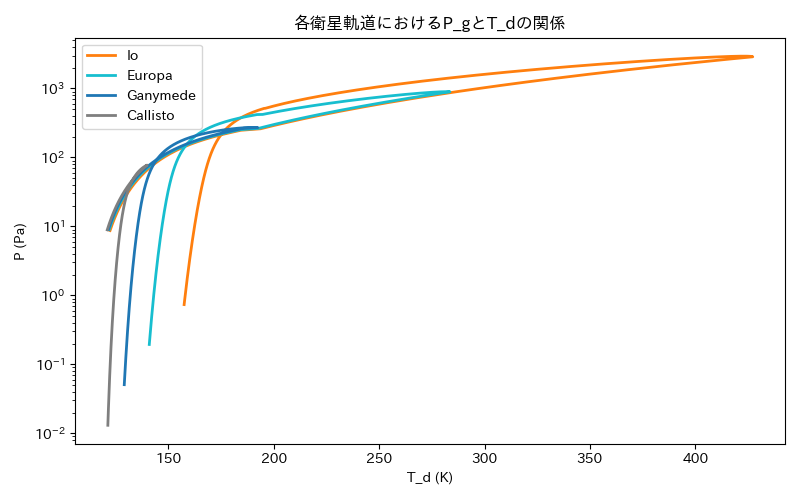
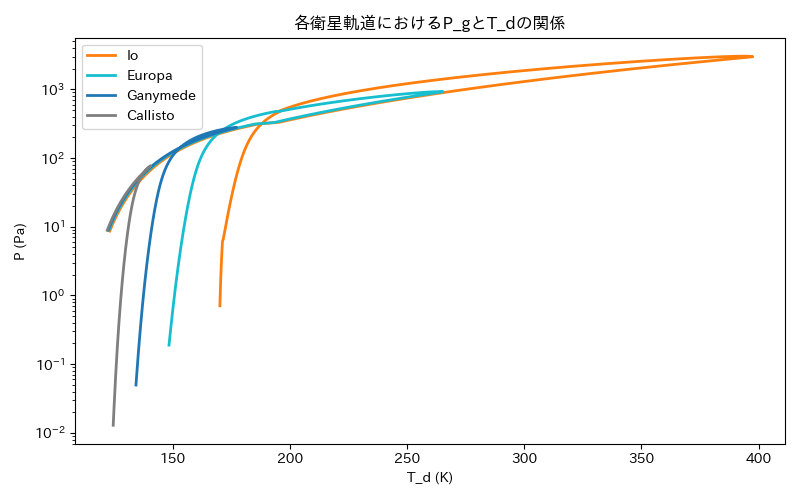
衛星の質量、氷質量分率を計算するコードを追加

diff --git a/gallilean_central_flax.py b/gallilean_central_flax.py
@@ -9,7 +9,7 @@ plt.rcParams['font.family'] = 'IPAexGothic'
 # --- 物理定数 ---
 G = 6.6743e-8             # 万有引力定数 (cm^3/g/s^2)
 sigma_sb = 5.67e-5         # ステファン・ボルツマン定数 (W/cm^2/K^4)
-r_gg = 5.0e-7              # 粒子とガスの面密度比
+r_gg = 3.4e-7              # 粒子とガスの面密度比
 k_B = 1.380649e-16         # ボルツマン定数 (erg/K)
 m_g = 3.9e-24              # ガスの平均分子質量 (g)
 alpha = 1.0e-4              # 乱流の強さ
@@ -26,6 +26,8 @@ au_cm = 1.495978707e13     # 1天文単位 (cm)
 a_J = 5.2 * au_cm          # 太陽から木星までの距離 (cm)
 L_sun_early = 0.70 * L_sun # 形成初期の太陽光度 (現在の75%)
 T_bg = (L_sun_early / (16.0 * np.pi * a_J**2 * sigma_sb))**0.25 # 太陽輻射による木星軌道付近の平衡温度 
+rho_ice = 1.4              # 氷の密度 (g/cm^3)
+rho_rock = 3.0             # 岩石の密度 (g/cm^3)
 
 # ==========================================
 # 事前準備：物理量を計算する関数群
@@ -57,7 +59,7 @@ def calculate_mdot_g(t, t_gap):
         M_dot_g = M_dot_g_gap
     return M_dot_g
 
-# 木星の光度 L_cp [erg/s] を時間発展で計算する関数
+# 木星の光度 L_cp [erg/s] を時間発展で計算する関数(Marley 2007)
 def calculate_L_cp(t, t_gap):
     t_end = 3.0e7
     L_gap = 1.5e-5 * L_sun      # ギャップ形成時の光度
@@ -103,7 +105,7 @@ def calculate_disk_structure(M_cp_kg, M_dot_g_kg_s, r, alpha, r_gg, L_cp, q_gues
         P_gas = rho_g * c_s**2
 
         # --- 追加: クラウジウス・クラペイロン式による動的スノーライン計算 ---
-        X_H2O = 1.7e-4  # 水のモル分率 (Shibaike et al. 2019準拠)
+        X_H2O = 1.7e-4  # 水のモル分率 (Oka et al. 2011により参考)
         P_H2O = max(X_H2O * P_gas, 1e-20)  # ゼロ割り防止
         T_snow = 6070.0 / (30.86 - np.log(P_H2O))
 
@@ -519,6 +521,9 @@ class Satellite:
         self.R_s = 3.35e7         # 初期半径 (cm)
         self.rho_s = 1.9       # 密度 (cm/g)
         self.M_s = (4.0/3.0) * np.pi * self.R_s**3 * self.rho_s
+        # ★ 追加: 蓄積された氷の総質量（初期の種は純粋な岩石と仮定）
+        self.M_ice = self.M_s * 0.5
+        self.M_rock = self.M_s * 0.5  
         
         # 記録用リスト
         self.history_t, self.history_Rs, self.history_r, self.history_Ts = [], [], [], []
@@ -530,6 +535,7 @@ class Satellite:
         self.history_R_out = []
         self.history_R_B = []
         self.history_P_surf = []
+        self.history_ice_frac = []
 
 # シミュレーションの初期設定
 t_year = 1.0e6             # イオが捕獲される時間からスタート
@@ -628,8 +634,8 @@ while t_year <= t_max_year:
         T_d, Sigma_g = calculate_disk_structure(M_cp_kg, M_dot_g_kg_s, sat.r_orb, alpha, r_gg, L_cp, q_guess=q)
         if np.isnan(T_d): continue
             
-        # スノーラインの判定（160K以上なら氷が蒸発してペブル質量フラックスが半減）
-        local_M_dot_p = current_M_dot_p * 0.5 if T_d >= 160.0 else current_M_dot_p
+        # スノーラインの判定（T_snow以上なら氷が蒸発してペブル質量フラックスが半減）
+        local_M_dot_p = current_M_dot_p * 0.5 if T_d >= T_snow_val else current_M_dot_p
        
         eta, H_g = calculate_eta(M_cp_kg, M_dot_g_kg_s, sat.r_orb, alpha, r_gg, L_cp)
         
@@ -651,7 +657,25 @@ while t_year <= t_max_year:
         
         current_M_dot_p = current_M_dot_p - M_dot_s
         
-        dRs_dt = M_dot_s / (4 * np.pi * sat.rho_s * sat.R_s**2)
+        # --- 追加・修正: 氷と岩石の質量を個別に計算 ---
+        # スノーラインより外側なら、降着するペブルの50%が氷だと仮定
+        f_ice = 0.5 if T_d < T_snow_val else 0.0
+        
+        dt_sec = dt_year * 365.25 * 24 * 3600
+        dM_s_total = M_dot_s * dt_sec
+        
+        sat.next_M_ice = sat.M_ice + dM_s_total * f_ice
+        sat.next_M_rock = sat.M_rock + dM_s_total * (1.0 - f_ice)
+        sat.next_M_s = sat.next_M_ice + sat.next_M_rock
+        
+        # 体積から新しい半径と平均密度を逆算
+        V_next = (sat.next_M_ice / rho_ice) + (sat.next_M_rock / rho_rock)
+        sat.next_R_s = ((3.0 / (4.0 * np.pi)) * V_next)**(1.0 / 3.0)
+        sat.next_rho_s = sat.next_M_s / V_next
+        
+        # 降着するペブルの密度 (rho_in) を使って半径の成長速度を計算
+        rho_in = 1.0 / (f_ice / rho_ice + (1.0 - f_ice) / rho_rock) if f_ice > 0 else rho_rock
+        dRs_dt = M_dot_s / (4.0 * np.pi * rho_in * sat.R_s**2)
         
         c_s = np.sqrt((k_B * T_d) / m_g)
         rho_g = Sigma_g / (np.sqrt(2.0 * np.pi) * H_g)
@@ -695,6 +719,8 @@ while t_year <= t_max_year:
         v_mig = calculate_v_ad(St_s, eta, v_K) + v_t1
         u_i = calculate_u_i(G, sat.M_s, sat.R_s, delta_v, st_p, Omega_K)
         Ts_strict, _ = calculate_Ts_strict(sat.rho_s, C_p, dRs_dt, M_dot_s, u_i, sat.R_s, T_d)
+
+
         
         # 次のステップの値を一時保存
         sat.next_r_orb = sat.r_orb + v_mig * (dt_year * 365.25 * 24 * 3600)
@@ -718,6 +744,15 @@ while t_year <= t_max_year:
         sat.next_R_B = R_B
         sat.next_P_surf = P_surf_cgs
 
+        # --- 追加: 氷質量の獲得 ---
+        dM_s = sat.next_M_s - sat.M_s  # このステップで獲得した質量
+        
+        # スノーライン(T_snow)より外側なら、獲得したペブルの50%が氷だと仮定
+        if T_d < T_snow_val:
+            sat.next_M_ice = sat.M_ice + dM_s * 0.5
+        else:
+            sat.next_M_ice = sat.M_ice  # 氷は増えない
+
     # --- ② 軌道共鳴チェック（内側の衛星から外側へ順番に判定） ---
     active_sats.sort(key=lambda s: s.r_orb)
     
@@ -739,6 +774,10 @@ while t_year <= t_max_year:
         
         # 状態を確定し、リストに記録
         sat.r_orb, sat.R_s, sat.M_s = sat.next_r_orb, sat.next_R_s, sat.next_M_s
+        sat.M_ice = sat.next_M_ice
+        sat.M_rock = sat.next_M_rock       
+        sat.rho_s = sat.next_rho_s      
+
         sat.history_t.append(t_year)
         sat.history_Rs.append(sat.R_s / 100000.0)
         sat.history_r.append(sat.r_orb / R_J)
@@ -757,6 +796,7 @@ while t_year <= t_max_year:
         sat.history_M_atm.append(sat.next_M_atm)
         sat.history_R_out.append(sat.next_R_out / 100000.0)  # km単位に変換
         sat.history_P_surf.append(sat.next_P_surf / 10.0)    # ★ 追加: dyn/cm^2 から Pa に変換
+        sat.history_ice_frac.append(sat.M_ice / sat.M_s)
     t_year += dt_year
 
 # ==========================================
@@ -771,6 +811,37 @@ print(f"うち未収束回数: {q_non_converge_count} 回")
 if q_total_count > 0:
     print(f"未収束の割合: {(q_non_converge_count / q_total_count) * 100:.2f} %")
 print("-" * 40)
+
+# ---------------------------------------------------
+# ★ ここに追加: 最終的な質量と氷質量分率の出力・保存
+# ---------------------------------------------------
+output_text = "=" * 40 + "\n"
+output_text += "計算終了時 (3000万年) の衛星の最終パラメータ\n"
+output_text += "=" * 40 + "\n"
+
+for sat in satellites:
+    # 質量を g から kg に変換
+    final_mass_kg = sat.M_s / 1000.0
+    
+    # 氷質量分率の計算 (前回追加した M_ice が実装されているか確認)
+    if hasattr(sat, 'M_ice'):
+        ice_frac = (sat.M_ice / sat.M_s) * 100.0
+        ice_str = f"{ice_frac:.1f} %"
+    else:
+        ice_str = "未計算 (M_iceの実装が必要です)"
+        
+    output_text += f"[{sat.name}]\n"
+    output_text += f"  最終質量   : {final_mass_kg:.3e} kg \n"
+    output_text += f"  氷質量分率 : {ice_str}\n"
+    output_text += f"  最終軌道   : {sat.r_orb / R_J:.2f} R_J\n"
+    output_text += "-" * 40 + "\n"
+
+# ターミナルに表示
+print(output_text)
+
+# テキストファイルとして保存
+with open("final_satellite_status.txt", "w", encoding="utf-8") as f:
+    f.write(output_text)
 
 # --- 1枚目: 軌道進化 (Orbital Evolution) ---
 plt.figure(figsize=(8, 5))  # 個別のグラフのサイズを指定
@@ -1151,7 +1222,7 @@ plt.close()
 plt.figure(figsize=(8, 5))
 
 plt.plot(fixed_history_t, fixed_history_Td, label=r"Disk Temperature (T_d)", color="red", linewidth=2)
-plt.plot(fixed_history_t, fixed_history_T_snow, label=r"Water Ice condensation Temperature (T_{snow})", color="blue", linestyle="--", linewidth=2)
+plt.plot(fixed_history_t, fixed_history_T_snow, label=r"Water Ice condensation Temperature (T_{con})", color="blue", linestyle="--", linewidth=2)
 
 plt.xlabel("Time [years]", fontsize=14)
 plt.ylabel("Temperature [K]", fontsize=14)
